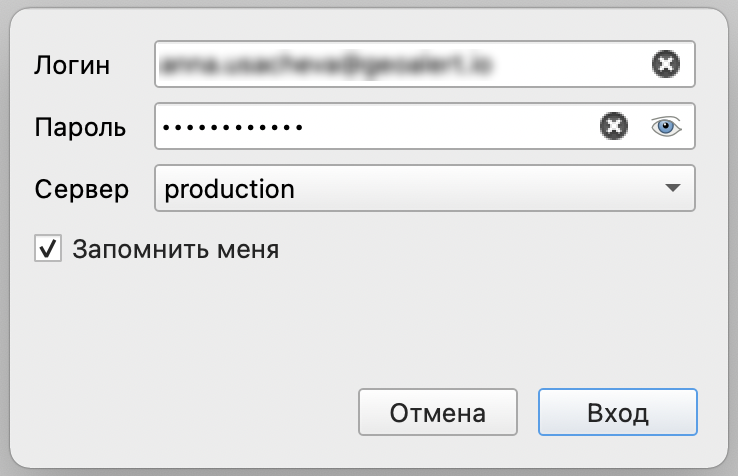
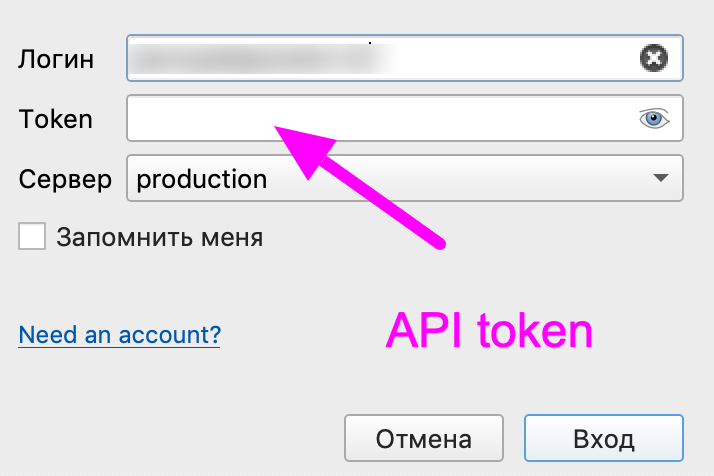
update about API token

Changed region(s): [[0.0, 0.0, 1.0, 1.0], [0.5238, 0.6471, 0.8319, 0.7353]]

diff --git a/docs_api/qgis_mapflow.rst b/docs_api/qgis_mapflow.rst
@@ -31,7 +31,7 @@ QGIS - Mapflow
 Пользовательский интерфейс
 ---------------------------
 
-Для использования плагина необходимо авторизоваться под своей учетноой записью. Зарегистрируйтесь и напишите в службу поддержки на сайте платформы запрос на предоставление доступа к API для работы с плагином.
+Для использования плагина необходимо авторизоваться под своей учетноой записью. Зарегистрируйтесь и получите API token для работы с плагином.
 
 Окно авторизации
 ~~~~~~~~~~~~~~~~

diff --git a/docs_userguides/mapflow_auth.rst b/docs_userguides/mapflow_auth.rst
@@ -5,13 +5,13 @@
 Для доступа к платформе из внешних приложений, таких как :doc:`плагин для QGIS <../docs_api/qgis_mapflow>` необходимо получить **API token**.
 Token нужно передавать в параметрах авторизации **Basic Auth** как пароль, а в качестве логина передавать свой логин от аккаунта в Mapflow.ai. 
 
- .. note::
+  .. note::
     Пример авторизации в приложении для QGIS:
 
- .. figure:: _static/api_token_login.png
-  :alt: Preview map
-  :align: center
-  :width: 12cm
+   .. figure:: _static/api_token_login.png
+    :alt: Preview map
+    :align: center
+    :width: 12cm
 
 
 

diff --git a/index.rst b/index.rst
@@ -23,7 +23,6 @@ Mapflow – начало работы
    :glob:
    :maxdepth: 1
 
-   docs_userguides/mapflow_auth
    docs_userguides/get_started
    docs_userguides/prices
 
@@ -36,6 +35,7 @@ Mapflow – начало работы
    :maxdepth: 1
 
    docs_api/processing_api
+   docs_userguides/mapflow_auth
    docs_userguides/pipelines
 
 
